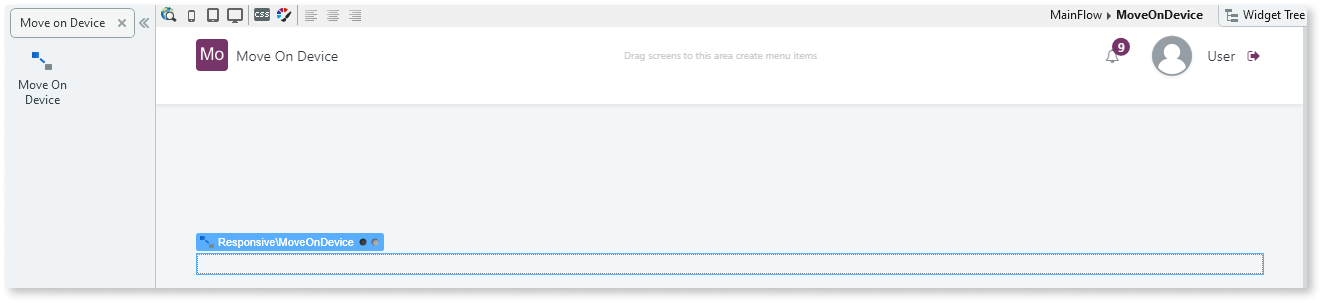
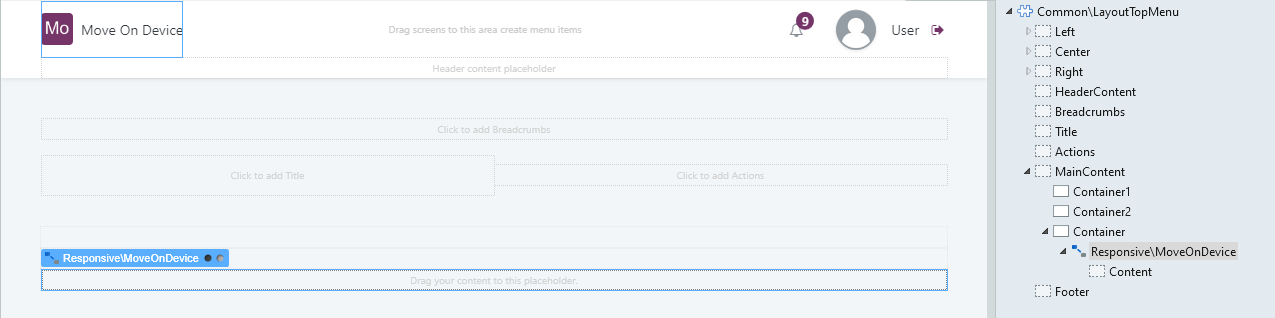
ui pattern feedback

diff --git a/src/develop/ui/patterns/web/content/lightboximage.md b/src/develop/ui/patterns/web/content/lightboximage.md
@@ -3,44 +3,43 @@ tags: runtime-traditionalweb;
 summary: LightBoxImage displays an image thumbnail that is clicked to open a fullscreen image.
 ---
 
-# Lightbox Image
+# Light Box Image
 
 You can use the Lightbox Image UI Pattern to open smaller thumbnail images in full screen mode. This UI pattern is often used when creating an image gallery, allowing you to navigate through each of the images and view them in more detail.  
 
 ![](<images/lightboxweb-image-11.png>)
 
-**How to use the Lightbox Image UI Pattern**
+**How to use the Light Box Image UI Pattern**
 
-1. In Service Studio, in the Toolbox, search for `Lightbox Image`. 
+1. In Service Studio, in the Toolbox, search for `Light Box Image`. 
 
-    The Lightbox Image widget is displayed.
+    The Light Box Image widget is displayed.
 
     ![](<images/lightboximage-image-12.png>)    
 
-1. From the Toolbox, drag the Lightbox Image widget into the Main Content area of your application's screen.
+1. From the Toolbox, drag the Light Box Image widget into the Main Content area of your application's screen.
    
     ![](<images/lightboximage-image-13.png>)
 
-1. From the Toolbox, drag the [Image widget](../../../../../ref/lang/auto/Class.Image%Widget.final.md) into the Lightbox Image widget. 
+1. From the Toolbox, drag the [Image widget](../../../../../ref/lang/auto/Class.Image%Widget.final.md) into the Light Box Image widget.This is a thumbnail image.
 
-1. Select the image you want to display. In this example, we use the default OutSystems UI Images
+    The **Select Image** pop-up is displayed.
 
+1. Select or import the image you want to display. In this example, we use the sample OutSystems UI images.
 
+    ![](<images/lightboximage-image-9.png>)
 
+    Note: In this example, the image property Type is set to **Static**. You can also choose [External URL or Database](../../../../../develop/ui/image/display-image.md).
 
-Note: In this example, the property type is set to **Local Image**. You can also choose **External URL** or **Binary Data**. 
+1. From the Widget tree, select the Light Box Image widget.
+    
+    ![](<images/lightboximage-image-14.png>)
 
-[Database Image](../../../../../develop/ui/image/display-image.md)
-
-
-        
-5. From the **Image** property drop-down, select or import an image.
-
-      ![](<images/lightboximage-image-9.png>)
-
-6.  Select the Lightbox Image widget, and on the **Properties** tab, set the relevant Lightbox Image properties, for example, the title of the image that is displayed.
+1. On the **Properties** tab, set the relevant Light Box Image properties, for example, the title of the image that is displayed,the group the image belongs to, and the size that the image will display in full screen mode.
 
      ![](<images/lightboximage-image-10.png>)
+
+1. Repeat steps 2-6 for each of the images you want in your Light Box Pattern. 
 
 After following these steps and publishing the module, you can test the pattern in your app.
 
@@ -48,9 +47,9 @@ After following these steps and publishing the module, you can test the pattern 
 
 | **Property** |  **Description** |
 |---|---|
-| Title (Text): Optional  |Image title that is displayed. <p>Examples<ul><li>_"Squirrel"_ - Displays *Squirrel* as the image title. </li><li>_"Dog"_ - Displays *Dog* as the image title. </li></ul></p>|
-| Group (Text): Optional | Images in the same group that are displayed in a gallery format.<p>Examples<ul><li> </li><li> </li></ul></p> |
-| ImageURL (Text): Optional | URL for an image that can be a replacement for the Image Placeholder image.<p>Examples<ul><li> </li><li> </li></ul></p> |
+| Title (Text): Optional  |Image title that is displayed when previewing the image in ful screen mode. <p>Examples<ul><li>_"Image 1"_ - Displays *Image 1* as the image title. </li></ul></p>|
+| Group (Text): Optional | Name of the group of images. Similar to the concept of a picture album. You can navigate through pictures with the same group name when viewing them in full screen mode.<p>Examples<ul><li>_Gallery 1_ - Adds this image to the _Gallery 1_ group</li></ul></p> |
+| ImageURL (Text): Optional | URL for the image you want to show in full screen mode. If empty, a zoomed version of the thumbnail is displayed. Use this if you want to load a lower quality image as a thumbnail and display a higher quality version in full screen mode.   |
 | ImageZoom (Decimal): Optional  |  Defines the size of the image that opens in full screen mode (based on the thumbnail size).<p>To avoid rendering problems, try to use images with the same ratio.<p>Examples</p><ul><li>_2_ - A thumbnail with 100x100, and zoom 2 opens with 200x200.</li><li> _0.5_ - A thumbnail with 500x500, and zoom 0.5 opens with 250x250.</li></ul></p> |
 | ExtendedClass (Text): Optional |  Add custom style classes to the Lightbox Image UI Pattern. You define your [custom style classes](../../../../../develop/ui/look-feel/css.md) in your application using CSS. <p>Examples <ul><li>_Blank_ - No custom styles are added (default value)</li><li>_''myclass''_ - adds the myclass style to the Lightbox Image UI styles being applied.<li>_''myclass1'' ''myclass2''_ - adds the _myclass1_ and _myclass2_ styles to the Lightbox Image UI styles being applied.</li></ul></p> |
 

diff --git a/src/develop/ui/patterns/web/responsive/moveondevice.md b/src/develop/ui/patterns/web/responsive/moveondevice.md
@@ -11,23 +11,36 @@ You can use the Move on Device UI Pattern to define the placement of information
 
 **How to use the Move on Device UI Pattern**  
 
-**Prerequisite**: You have added containers to your application. 
+1. In Service Studio, in the Toolbox, search for `Container`. 
 
-1. In Service Studio, in the Toolbox, search for `Move on Device`. 
-
-    The Move on Device widget is displayed.
+    The Container widget is displayed.
     
-    ![](<images/moveondevice-image-4.png>)
+    ![](<images/moveondevice-image-6.png>)
 
-1. From the Toolbox, drag the Move on Device widget into the Container area of your application's screen.
+1. From the Toolbox, drag the Container widget into the Main Content area of your application's screen.
+    
+    ![](<images/moveondevice-image-7.png>)
+
+1. On the **Properties** tab, enter the container name.
+
+    ![](<images/moveondevice-image-9.png>)
+
+1. Repeat steps 2 and 3 for as many containers as you need in your app. 
+
+1. From the Toolbox, drag the Move on Device widget into the Main Content area of your application's screen.
 
     ![](<images/moveondevice-image-5.png>)
 
-1. Add the required content to the Move on Device placeholder, for example, menu items or images. 
+1. Add the required content to the Move on Device placeholder. 
 
-1. On the **Properties** tab, set the target container IDs you want to move the content to.
+    In this example, we add an image by dragging the Image widget into Move on Device widget and selecting an image from the sample OutSystems UI images.
+
+    ![](<images/moveondevice-image-8.png>)
+
+1. To define where the image appears depending on the device, select the Move on Device widget, and on the **Properties** tab, set the PhoneWidgetId and TabletWidgetId properties.
 
     ![](<images/moveondevice-image-2.png>)
+
 
 After following these steps and publishing the module, you can test the pattern in your app.
 
@@ -35,8 +48,8 @@ After following these steps and publishing the module, you can test the pattern 
 
 | **Properties** |  **Description** |
 |---|---|
-| PhoneWidgetId (Text): Optional  | Target container that displays this widget on phones. <p>Examples <ul><li>_Blank_ - </li><li>_Phone.Id_ - </li></ul></p>|
-| TabletWidgetId (Text): Optional | Target container that displays this widget on tablets.<p>Examples <p>Examples <ul><li>_Blank_ - </li><li>_Tablet.Id_ - </li></ul></p>||
+| PhoneWidgetId (Text): Optional  | Target container that displays this widget on phones. <p>Examples <ul><li>_Container1.Id_ - The content appears in this container when viewed on a phone</li></ul></p>|
+| TabletWidgetId (Text): Optional | Target container that displays this widget on tablets.<p>Examples  <ul><li>_Container2.Id_ - The content appears in this container when viewed on a tablet</li></ul></p>||
 
 
 

diff --git a/src/develop/ui/patterns/web/utilities/iframe.md b/src/develop/ui/patterns/web/utilities/iframe.md
@@ -21,7 +21,7 @@ summary: Iframe displays information from other apps on the screen in small prev
 
     ![](<images/iframe-image-7.png>)
 
-1. On the **Properties** tab, set the relevant properties, for example, the Iframe URL, its title, as well as its width and height. In this example, the we use the Wikipedia Website.
+1. On the **Properties** tab, set the relevant properties, for example, the source URL, its title, as well as its width and height. In this example, we use the Wikipedia Website.
 
     Note: The target destination must have the necessary security permissions that allow you to embed their website in your app.
 
@@ -35,7 +35,7 @@ After following these steps and publishing the module, you can test the pattern 
 
 | **Property** |  **Description** |
 |---|---|
-| SourceURL (Text): Mandatory | The target URL that loads on the Iframe.<p>Examples<ul><li>_"https://www.wikipedia.com"_ - Displays the Wikipedia website in your app in a bite-size preview.</ul></p> | 
+| SourceURL (Text): Mandatory | The target URL that loads on the Iframe.<p>Examples<ul><li>_"https://www.wikipedia.com"_ - Displays the Wikipedia website in your app as a bite-size preview</ul></p> | 
 | Title (Text): Optional | Iframe title.<p>Examples<ul><li>_"Wikipedia Website"_ - Displays _Wikipedia Website_ as the Iframe title</li></ul></p>|
 | Height (Text): Optional  | Iframe height (default is 100%). <p>Examples<ul><li>_"100%"_ - The iframe height is 100% </li><li>_200_ - The iframe is 200 pixels high </li></ul></p>|
 | Width (Text): Optional | Iframe width (default is 100%). <p>Examples<ul><li> _"100%"_ - The iframe width is 100%</li><li>_200_ - The iframe is 200 pixels wide </li></li></ul></p>|

diff --git a/src/develop/ui/patterns/web/numbers/badge.md b/src/develop/ui/patterns/web/numbers/badge.md
@@ -35,7 +35,7 @@ The following example demonstrates how you can display the number of registered 
 
     ![](<images/badge-image-13.png>)
 
-    This creates an [aggregate](https://success.outsystems.com/Documentation/11/Reference/OutSystems_Language/Data/Handling_Data/Queries/Aggregate) that retrieves all of the users on your platform.
+    This creates an [aggregate](../../../../../ref/lang/auto/Class.Aggregate.md) that retrieves all of the users on your platform.
        
 1. To reopen your screen, select the **Interface** tab, and double-click on your screen.
 

diff --git a/src/develop/ui/patterns/web/navigation/wizard.md b/src/develop/ui/patterns/web/navigation/wizard.md
@@ -68,7 +68,7 @@ The following example demonstrates how you can create a four step Wizard with na
 
 1. In the expression editor, enter the following expression:
 
-    ` If(CurrentStep = 1, Entities.Step.Active,If(CurrentStep > 1, Entities.Step.Past, Entities.Step.Next)) `
+    `If(CurrentStep = 1, Entities.Step.Active,If(CurrentStep > 1, Entities.Step.Past, Entities.Step.Next))`
 
     ![](images/wizard-image-16.png)
 
